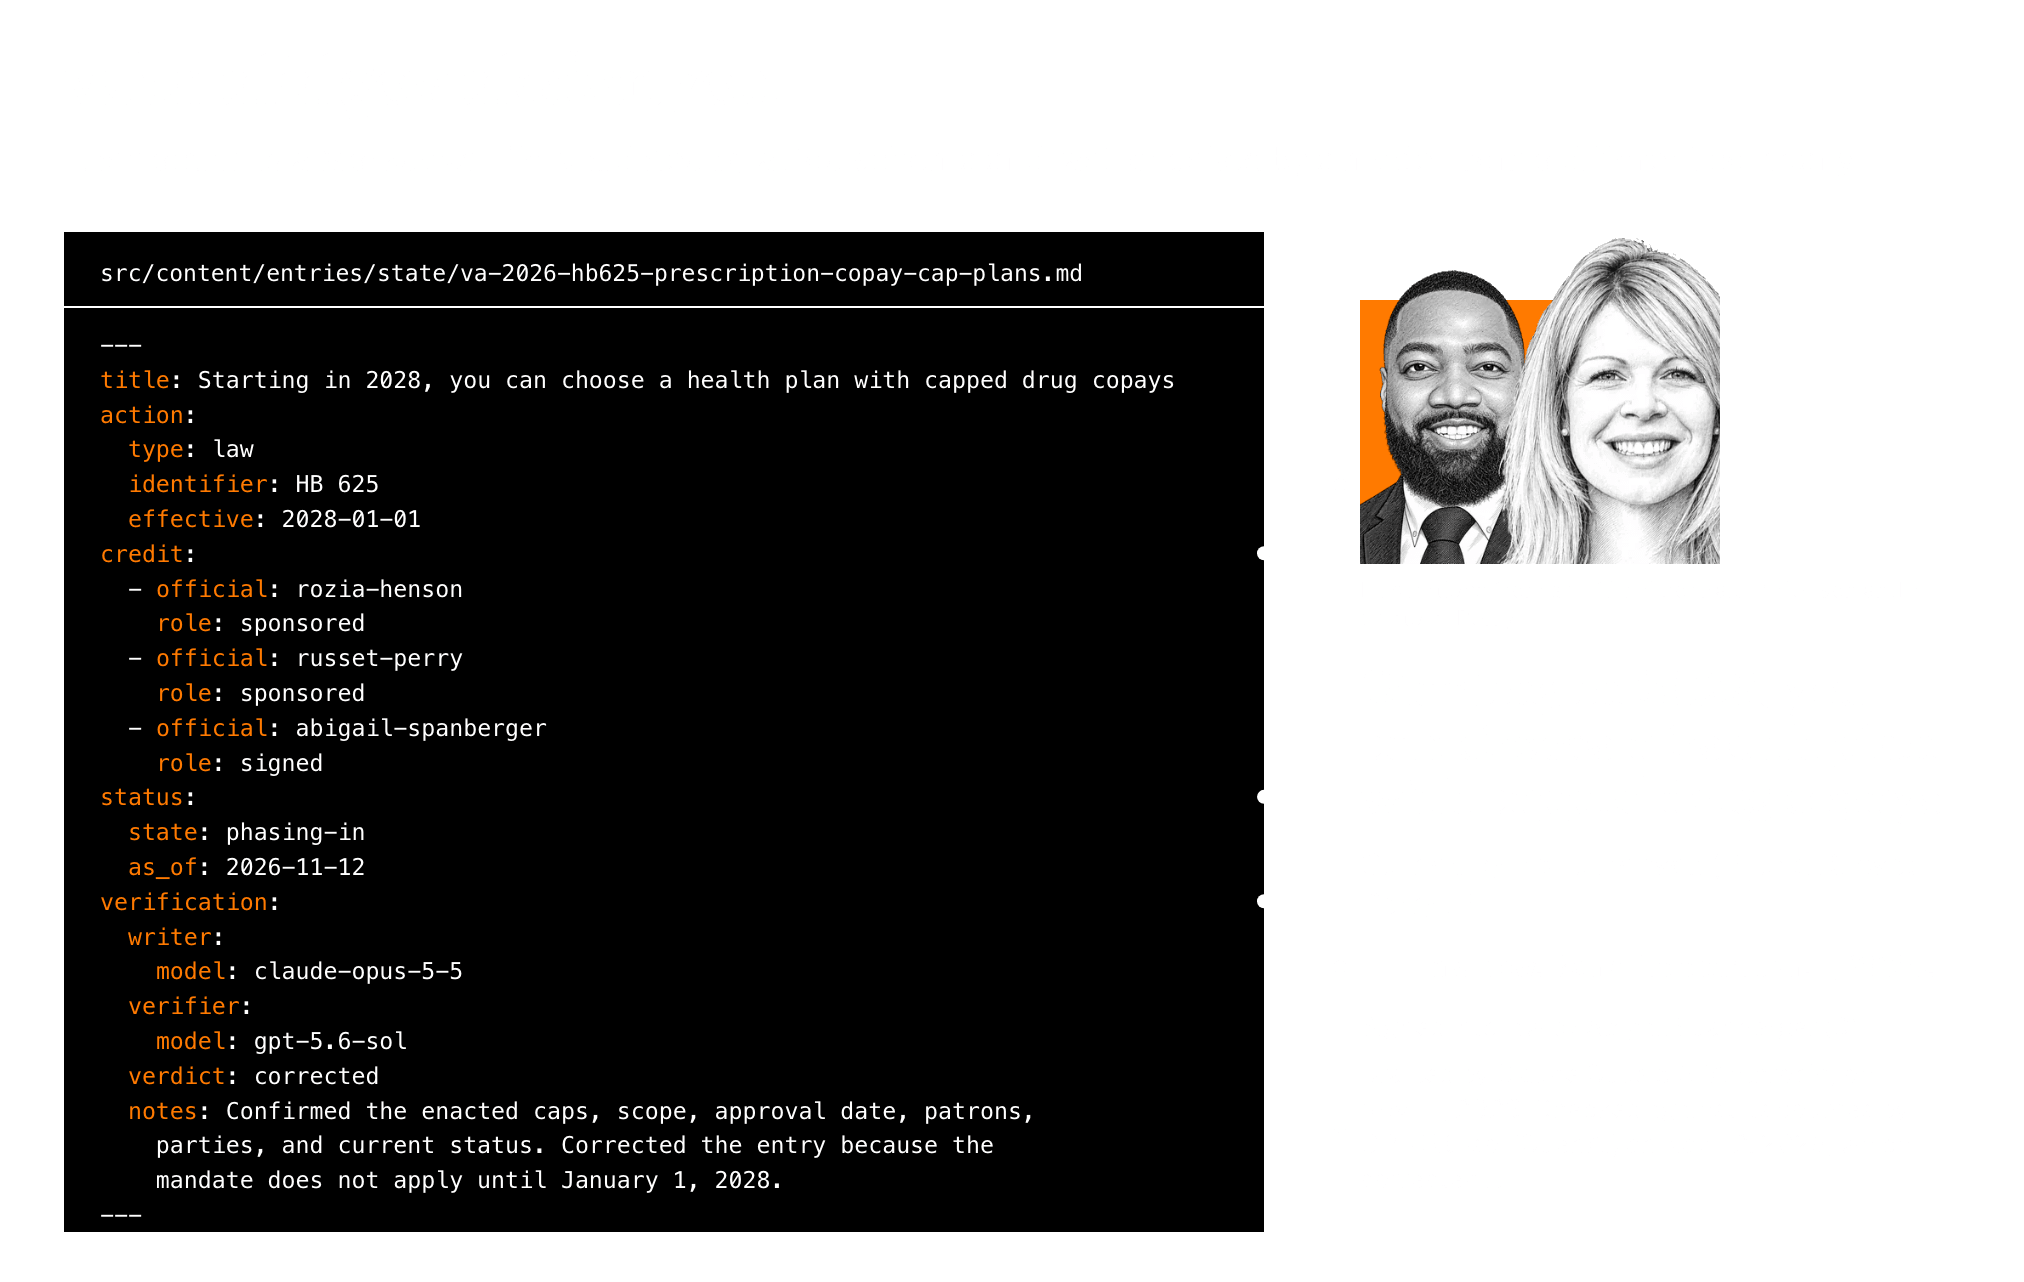
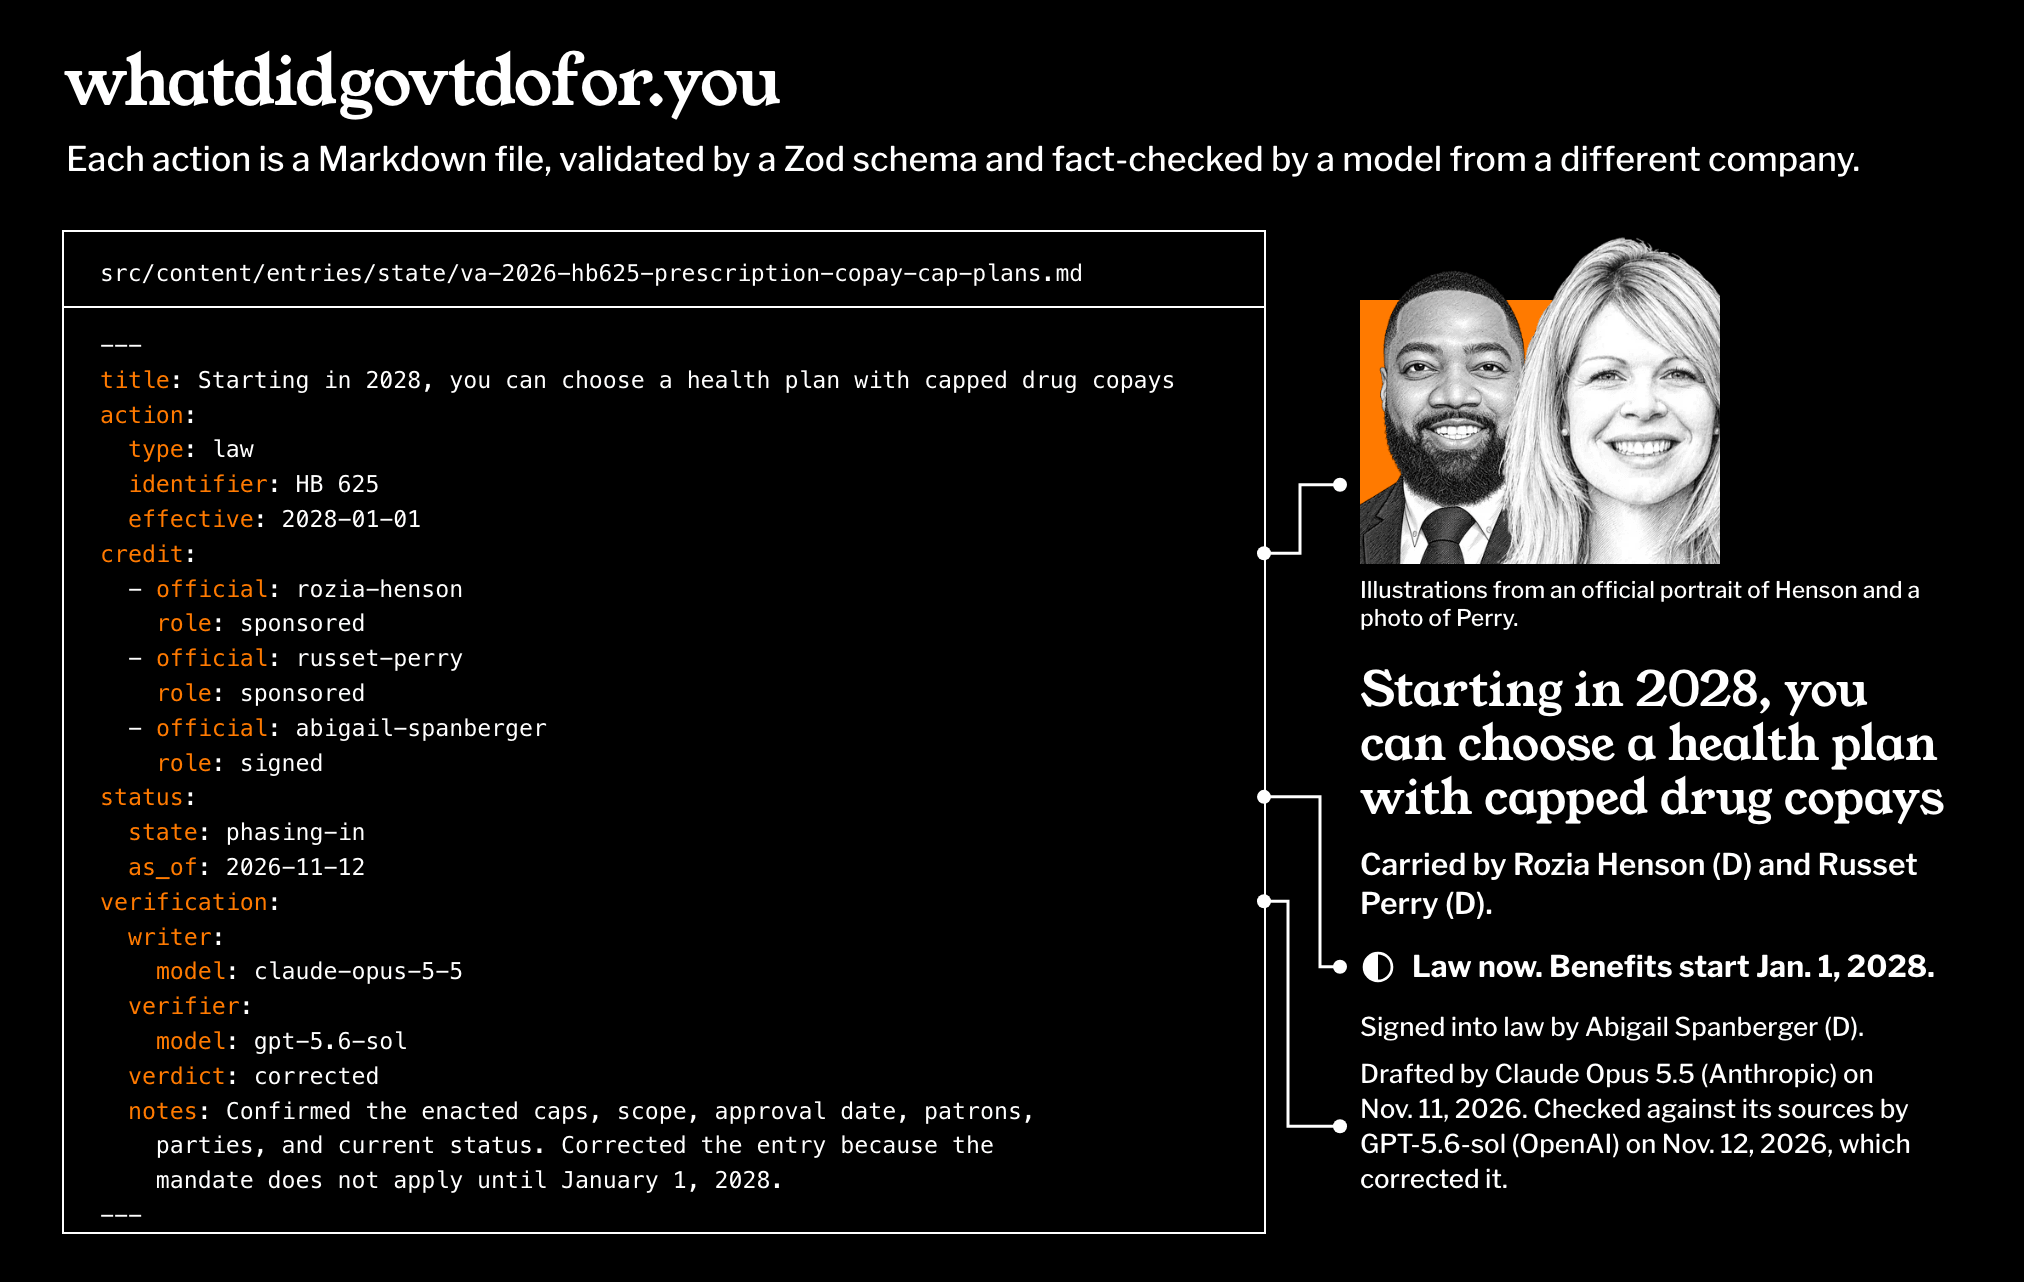
Give the README cover opaque backgrounds (#4)
<picture> picks the image by the operating system's light or dark setting, not the GitHub theme,
so with GitHub on dark and macOS on light the light cover showed: black text on a transparent
background, on GitHub's dark page. Each version now has its own background (paper for light, ink
for dark), so whichever one GitHub shows stays readable.

diff --git a/docs/readme-cover/base.css b/docs/readme-cover/base.css
@@ -4,10 +4,10 @@
 @font-face { font-family: 'Libre Franklin'; font-weight: 600; src: url('../../node_modules/@fontsource/libre-franklin/files/libre-franklin-latin-600-normal.woff2') format('woff2'); }
 @font-face { font-family: 'Libre Franklin'; font-weight: 700; src: url('../../node_modules/@fontsource/libre-franklin/files/libre-franklin-latin-700-normal.woff2') format('woff2'); }
 @font-face { font-family: 'Libre Franklin'; font-weight: 800; src: url('../../node_modules/@fontsource/libre-franklin/files/libre-franklin-latin-800-normal.woff2') format('woff2'); }
-:root { --orange: #ff7a00; --ink: #000; --paper: #fff; --muted: #444; --fg: #000; }
-html.dark { --fg: #fff; }
+:root { --orange: #ff7a00; --ink: #000; --paper: #fff; --muted: #444; --fg: #000; --bg: var(--paper); }
+html.dark { --fg: #fff; --bg: var(--ink); }
 * { box-sizing: border-box; margin: 0; padding: 0; }
-html, body { width: var(--w); height: var(--h); overflow: hidden; background: transparent; }
+html, body { width: var(--w); height: var(--h); overflow: hidden; background: var(--bg); }
 body { font-family: 'Libre Franklin', sans-serif; font-variant-numeric: lining-nums; -webkit-font-smoothing: antialiased; position: relative; color: var(--fg); }
 .serif { font-family: 'Young Serif', serif; font-weight: 400; font-variant-numeric: lining-nums; }
 .mark { display: inline-block; vertical-align: -0.14em; }
